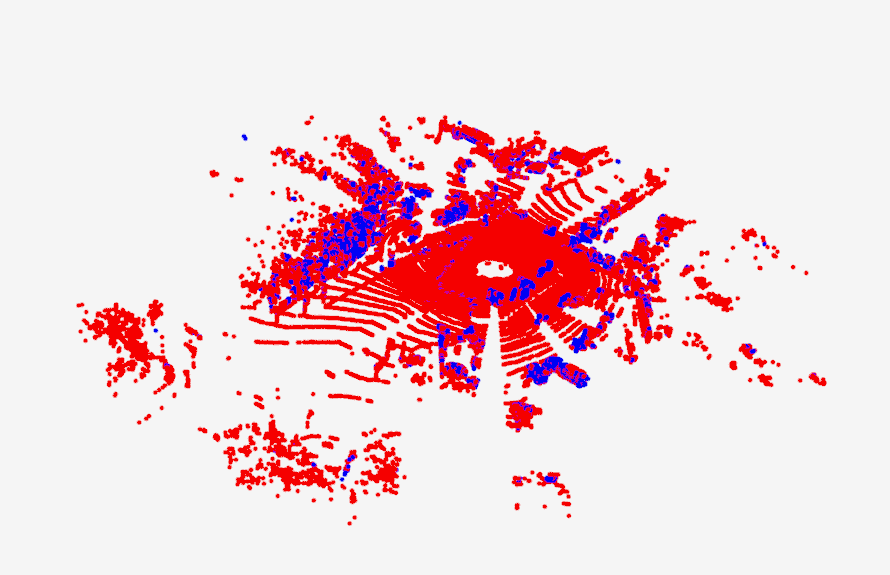
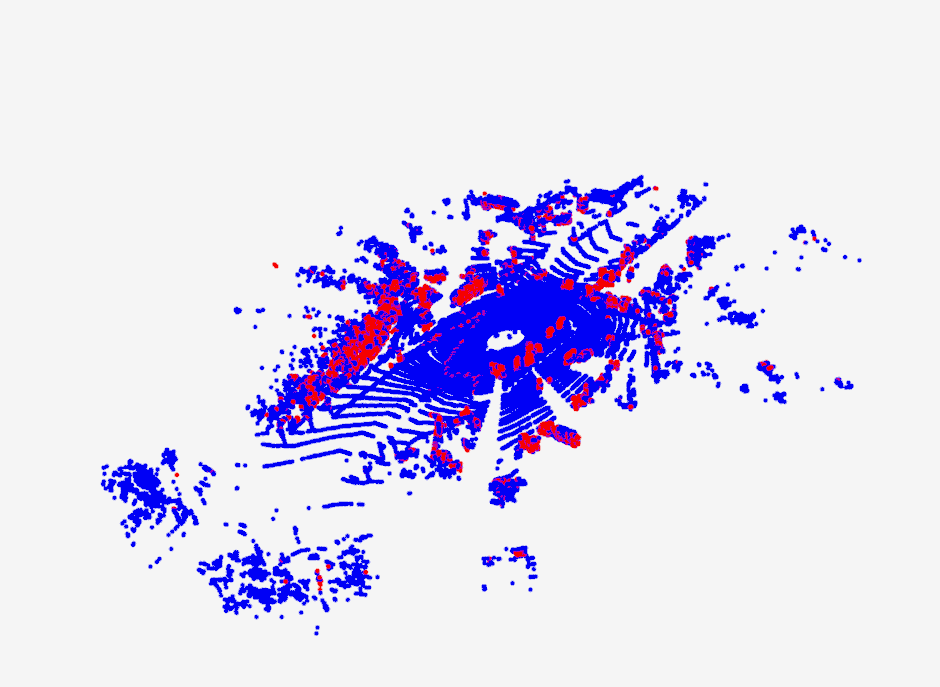
fix ground_filter.png

diff --git a/ground_filter/main_ground_filter.py b/ground_filter/main_ground_filter.py
@@ -25,8 +25,8 @@ colors = np.zeros((pc.shape[0],3))
 d = pc[:, 3]
 tmp = np.where(d<=0)
 d = np.where(d>0, 70, 20)
-colors[:] = [0,0,255]
-colors[tmp] = [255,0,0]
+colors[:] = [255,0,0]
+colors[tmp] = [0,0,255]
 # for i in range(colors.shape[0]):
 #     if d[i] == 20:
 #         colors[i] = [0, 0, 255]
